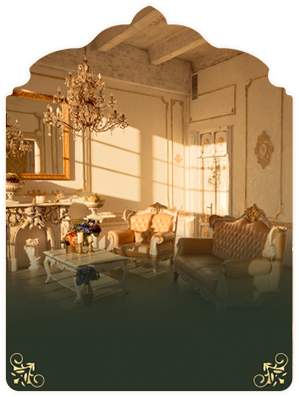
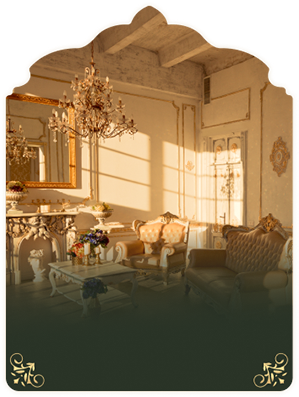
Update

Changed region(s): [[0.0, 0.0302, 0.9933, 0.7557], [0.9632, 0.7859, 0.9933, 0.937]]

diff --git a/gaj-home-V2.html b/gaj-home-V2.html
@@ -4494,7 +4494,7 @@
                         <div class="swiper-wrapper">
                             <div class="swiper-slide">
                                 <div class="card2">
-                                    <img src="https://www.idfcfirst.bank.in/content/dam/idfcfirstbank/images/gaj-cc/0-forex-R1-002.png" class="" alt="">
+                                    <img src="images/card-zero-forex.png" class="" alt="">
                                     <div class="card-body">
                                         <h5 class="fs-14">Zero Forex Markup</h5>
                                         <p class="card-text">on international purchases</p>
@@ -4503,7 +4503,7 @@
                             </div>
                             <div class="swiper-slide">
                                 <div class="card2">
-                                    <img src="https://www.idfcfirst.bank.in/content/dam/idfcfirstbank/images/gaj-cc/Reward-upto-33-metal-credit-card-gaj-002.png" class="" alt="">
+                                    <img src="images/card-value-back.png" class="" alt="">
                                     <div class="card-body">
                                         <h5 class="fs-14">Up to 33.33% Value Back</h5>
                                         <p class="card-text">with up to 50 reward points per ₹150 spent</p>

diff --git a/gaj-home-cal.html b/gaj-home-cal.html
@@ -5295,7 +5295,7 @@
                         <div class="swiper-wrapper">
                             <div class="swiper-slide">
                                 <div class="card2">
-                                    <img src="https://www.idfcfirst.bank.in/content/dam/idfcfirstbank/images/gaj-cc/0-forex-R1-002.png" class="" alt="">
+                                    <img src="images/card-zero-forex.png" class="" alt="">
                                     <div class="card-body">
                                         <h5 class="fs-14">Zero Forex Markup</h5>
                                         <p class="card-text">on international purchases</p>
@@ -5304,7 +5304,7 @@
                             </div>
                             <div class="swiper-slide">
                                 <div class="card2">
-                                    <img src="https://www.idfcfirst.bank.in/content/dam/idfcfirstbank/images/gaj-cc/Reward-upto-33-metal-credit-card-gaj-002.png" class="" alt="">
+                                    <img src="images/card-value-back.png" class="" alt="">
                                     <div class="card-body">
                                         <h5 class="fs-14">Up to 33.33% Value Back</h5>
                                         <p class="card-text">with up to 50 reward points per ₹150 spent</p>

diff --git a/gaj-home-popup.html b/gaj-home-popup.html
@@ -4412,7 +4412,7 @@
                         <div class="swiper-wrapper">
                             <div class="swiper-slide">
                                 <div class="card2">
-                                    <img src="https://www.idfcfirst.bank.in/content/dam/idfcfirstbank/images/gaj-cc/0-forex-R1-002.png" class="" alt="">
+                                    <img src="images/card-zero-forex.png" class="" alt="">
                                     <div class="card-body">
                                         <h5 class="fs-14">Zero Forex Markup</h5>
                                         <p class="card-text">on international purchases</p>
@@ -4421,7 +4421,7 @@
                             </div>
                             <div class="swiper-slide">
                                 <div class="card2">
-                                    <img src="https://www.idfcfirst.bank.in/content/dam/idfcfirstbank/images/gaj-cc/Reward-upto-33-metal-credit-card-gaj-002.png" class="" alt="">
+                                    <img src="images/card-value-back.png" class="" alt="">
                                     <div class="card-body">
                                         <h5 class="fs-14">Up to 33.33% Value Back</h5>
                                         <p class="card-text">with up to 50 reward points per ₹150 spent</p>

diff --git a/gaj-home.html b/gaj-home.html
@@ -4494,7 +4494,7 @@
                         <div class="swiper-wrapper">
                             <div class="swiper-slide">
                                 <div class="card2">
-                                    <img src="https://www.idfcfirst.bank.in/content/dam/idfcfirstbank/images/gaj-cc/0-forex-R1-002.png" class="" alt="">
+                                    <img src="images/card-zero-forex.png" class="" alt="">
                                     <div class="card-body">
                                         <h5 class="fs-14">Zero Forex Markup</h5>
                                         <p class="card-text">on international purchases</p>
@@ -4503,7 +4503,7 @@
                             </div>
                             <div class="swiper-slide">
                                 <div class="card2">
-                                    <img src="https://www.idfcfirst.bank.in/content/dam/idfcfirstbank/images/gaj-cc/Reward-upto-33-metal-credit-card-gaj-002.png" class="" alt="">
+                                    <img src="images/card-value-back.png" class="" alt="">
                                     <div class="card-body">
                                         <h5 class="fs-14">Up to 33.33% Value Back</h5>
                                         <p class="card-text">with up to 50 reward points per ₹150 spent</p>
